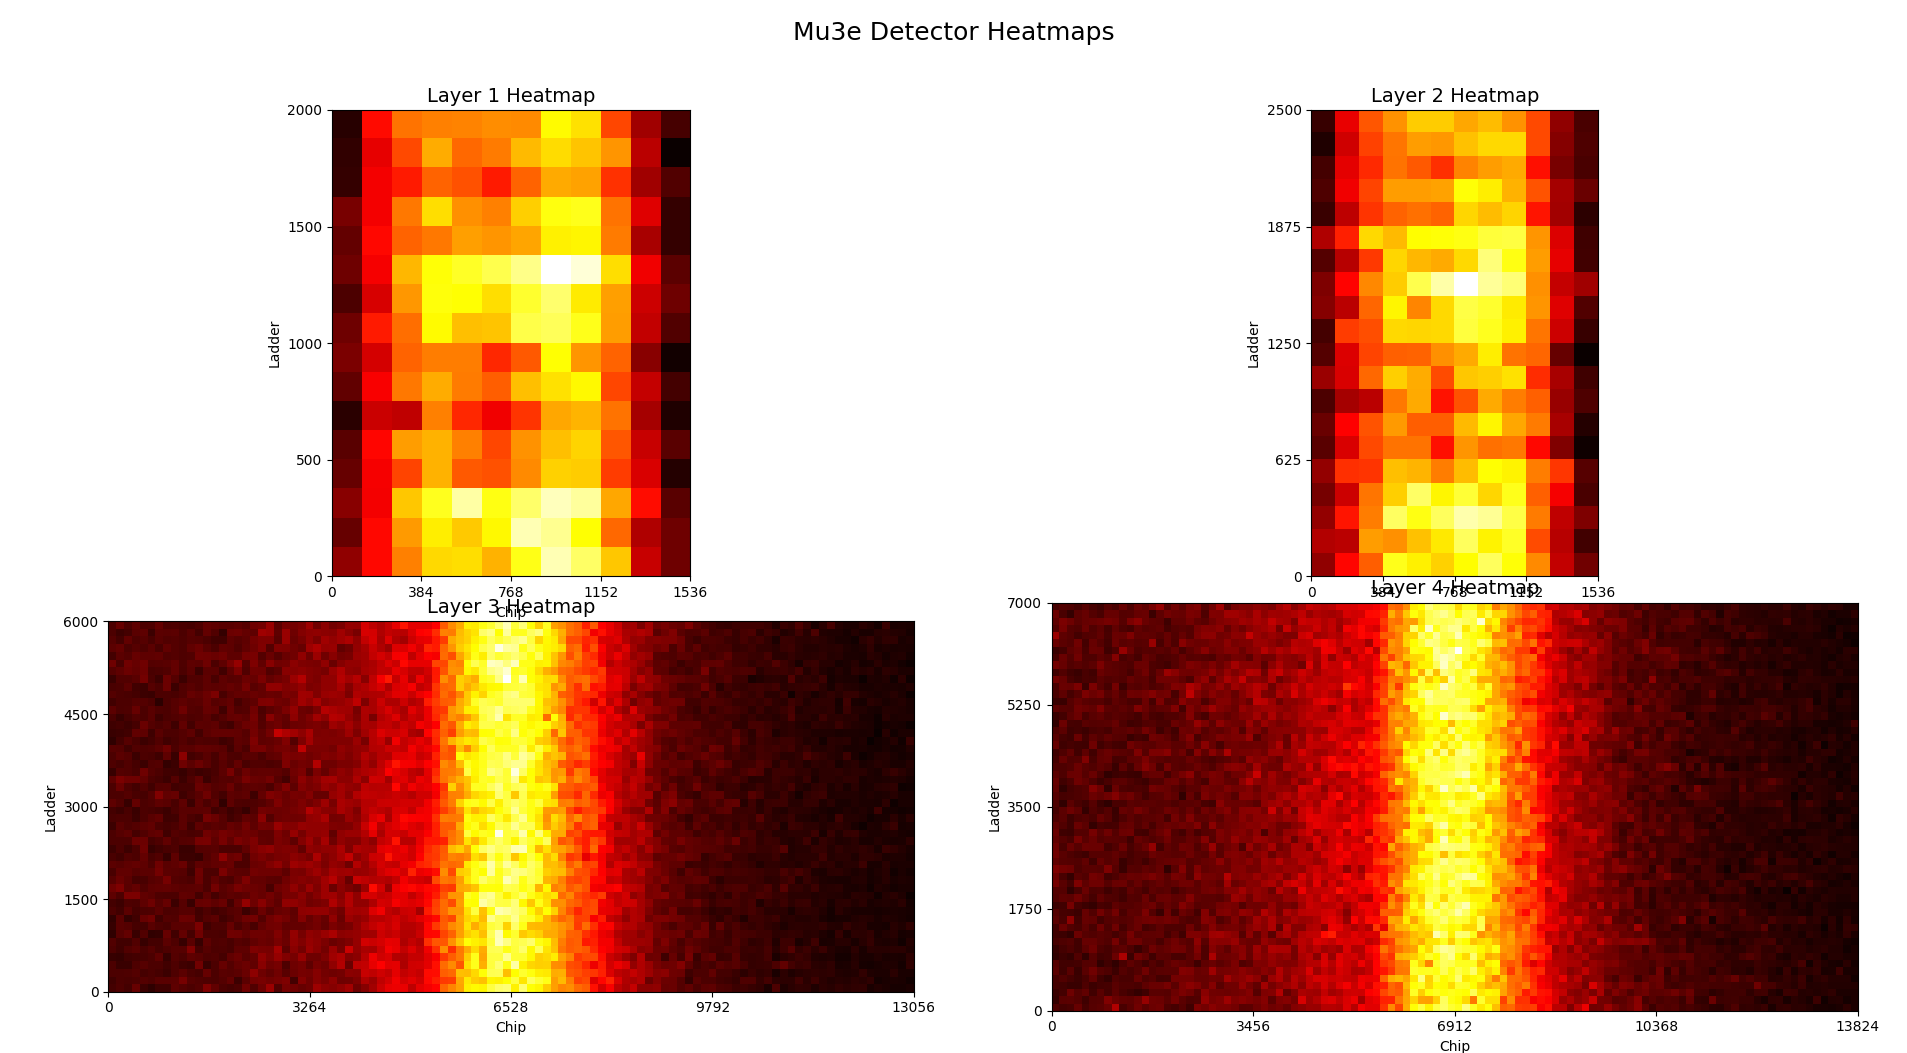
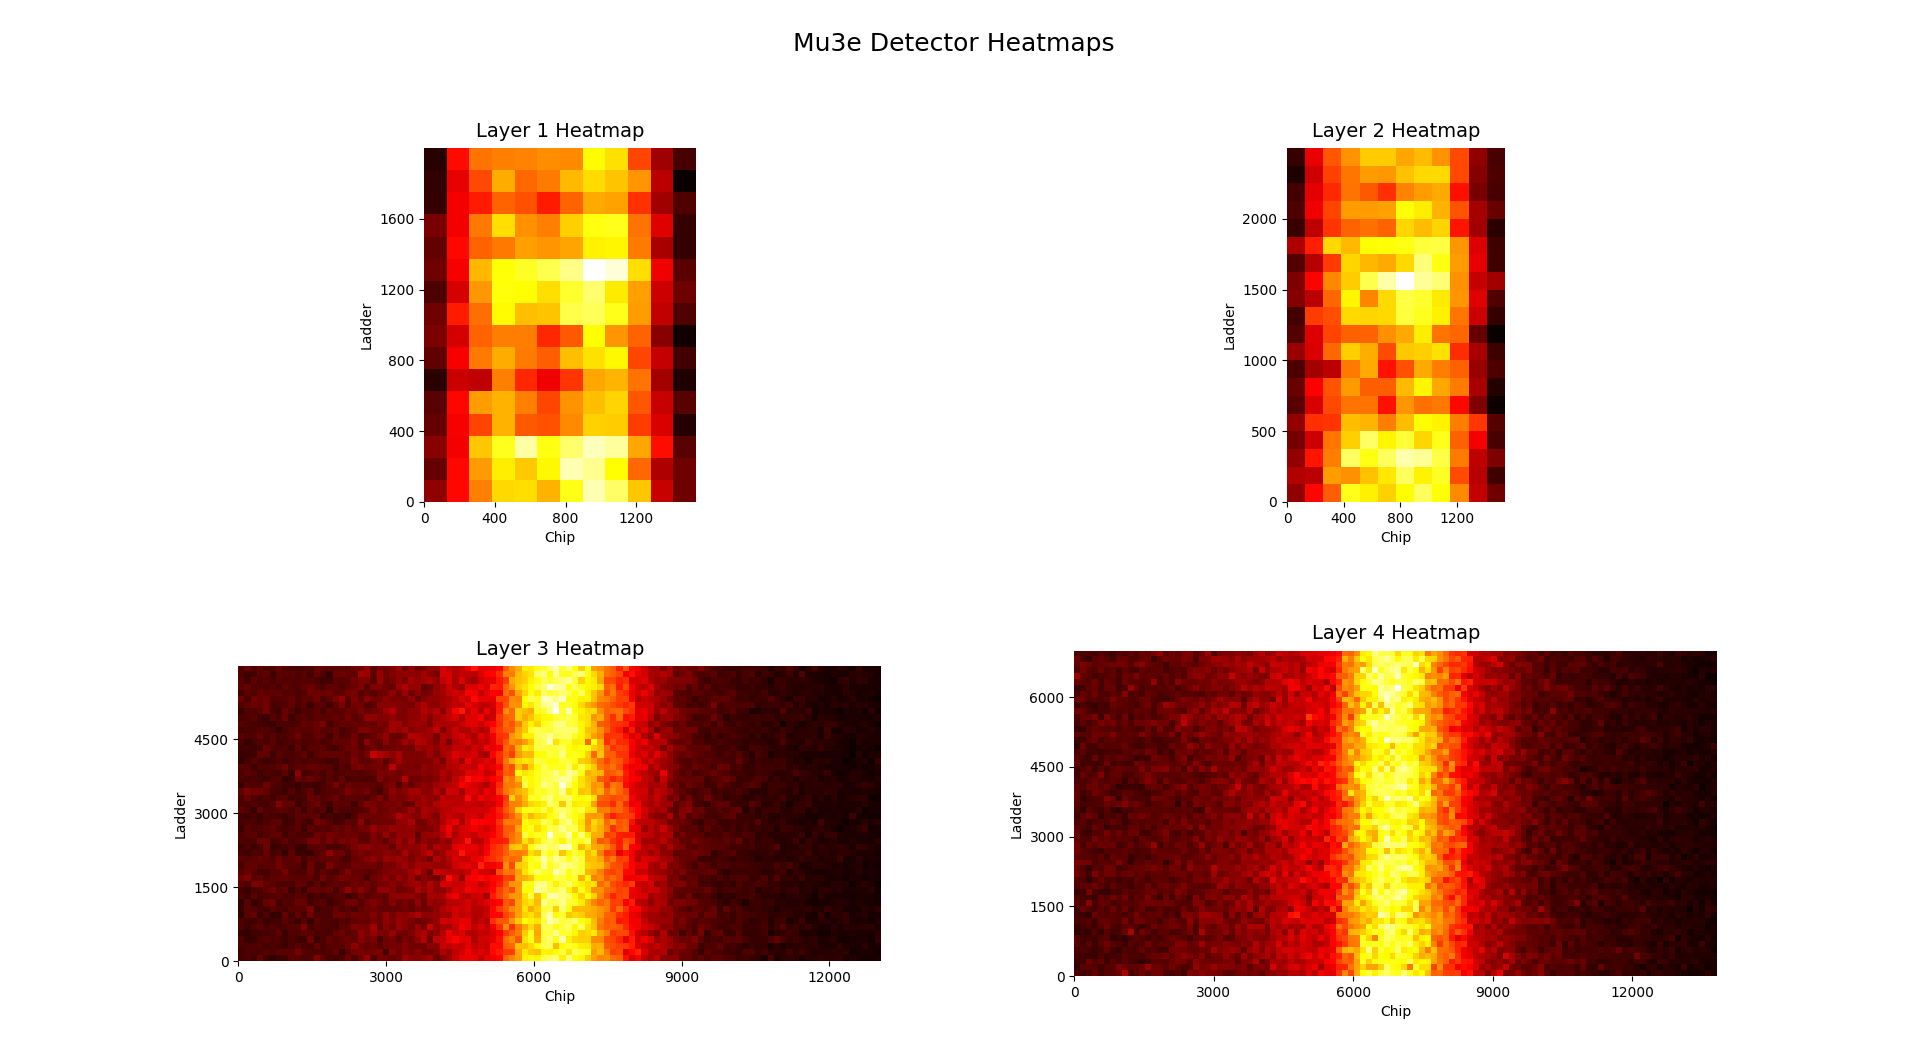
Merged Heatmaps Finished

diff --git a/N Codes/g) hitmap_plotting.py b/N Codes/g) hitmap_plotting.py
@@ -3,6 +3,7 @@ import matplotlib.pyplot as plt
 import numpy as np
 import hist 
 from matplotlib.ticker import MaxNLocator
+import matplotlib.gridspec as gridspec
 
 
 
@@ -254,8 +255,8 @@ def frameHitPlottingMerged(frame_hits_data, frame_number):
     layers = [1, 2, 3, 4]
     stations = [0, 0, "all", "all"]
 
-    fig, axes = plt.subplots(2, 2, figsize=(14, 12))
-    fig.suptitle("Mu3e Detector Heatmaps", fontsize=18)
+    fig, axes = plt.subplots(2, 2, figsize=(18, 14))  # 🔥 Increased width for Layer 1 & 2
+    fig.suptitle("Mu3e Detector Heatmaps", fontsize=18, y=0.97)
 
     layer_config = {
         1: (8, 6),   # (Ladders, Chips)
@@ -302,21 +303,24 @@ def frameHitPlottingMerged(frame_hits_data, frame_number):
             extent=[0, chip_max * pixel_size_x, 0, ladder_max * pixel_size_y]
         )
 
-        ax.set_title(f"Layer {layer} Heatmap", fontsize=14, pad=15)
+        ax.set_title(f"Layer {layer} Heatmap", fontsize=14, pad=8)
         ax.set_xlabel("Chip")
         ax.set_ylabel("Ladder")
 
-        # Dynamically set correct ticks
-        ax.xaxis.set_major_locator(MaxNLocator(integer=True, prune='both'))
-        ax.yaxis.set_major_locator(MaxNLocator(integer=True, prune='both'))
-
-        ax.grid(visible=True, linestyle='--', linewidth=0.5, alpha=0.7)
+        # Remove subplot borders but keep axis labels
         for spine in ax.spines.values():
-            spine.set_edgecolor('black')
-            spine.set_linewidth(1)
+            spine.set_visible(False)
 
-    plt.subplots_adjust(hspace=0.3, wspace=0.25)
-    plt.tight_layout(rect=[0, 0, 1, 0.96])
+        # Ensure ticks are within the visible range
+        ax.xaxis.set_major_locator(MaxNLocator(integer=True, nbins=5, prune="both"))
+        ax.yaxis.set_major_locator(MaxNLocator(integer=True, nbins=5, prune="both"))
+
+        ax.set_xticks(sorted(set([0] + list(ax.get_xticks()))))
+        ax.set_yticks(sorted(set([0] + list(ax.get_yticks()))))
+
+    # Adjusted spacing:  
+    plt.subplots_adjust(hspace=0.38, wspace=0.3)  # 🔹 Widened space for Layer 1 & 2
+
     plt.show()
 
 
